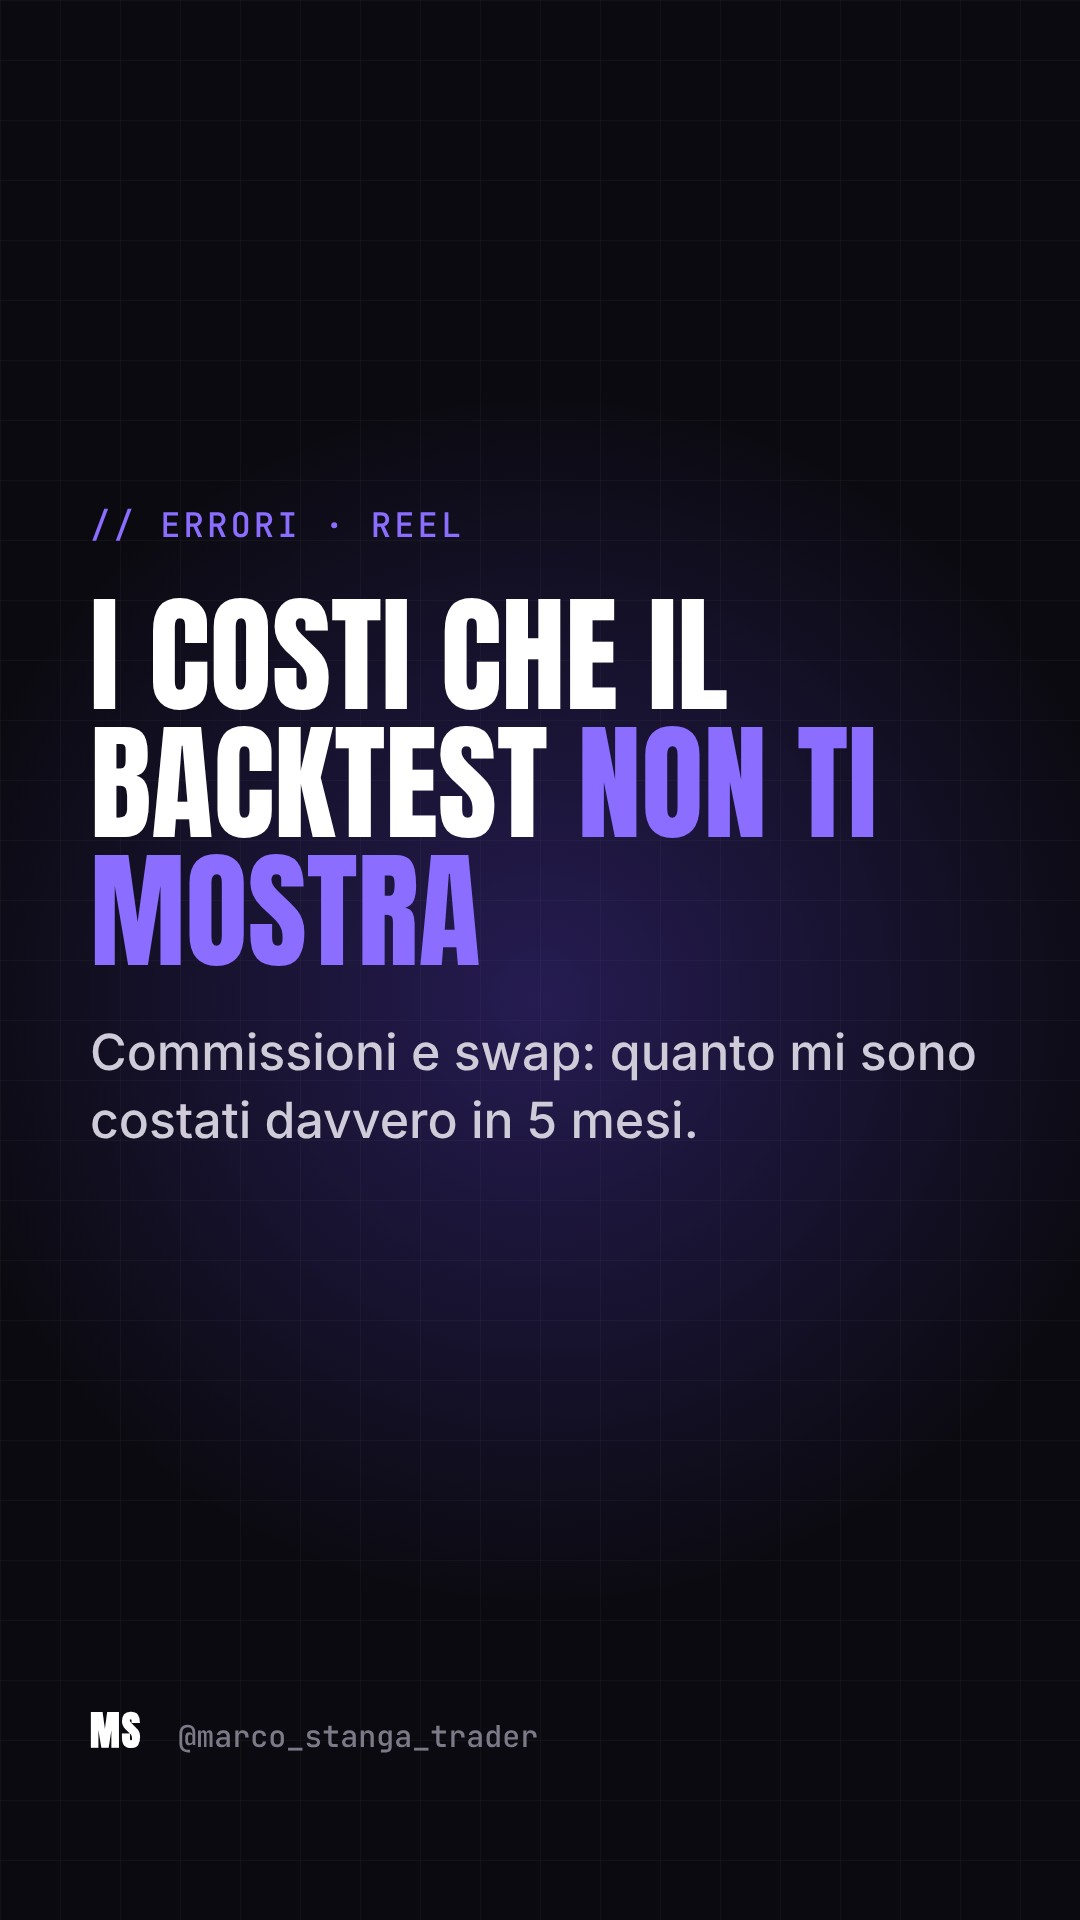
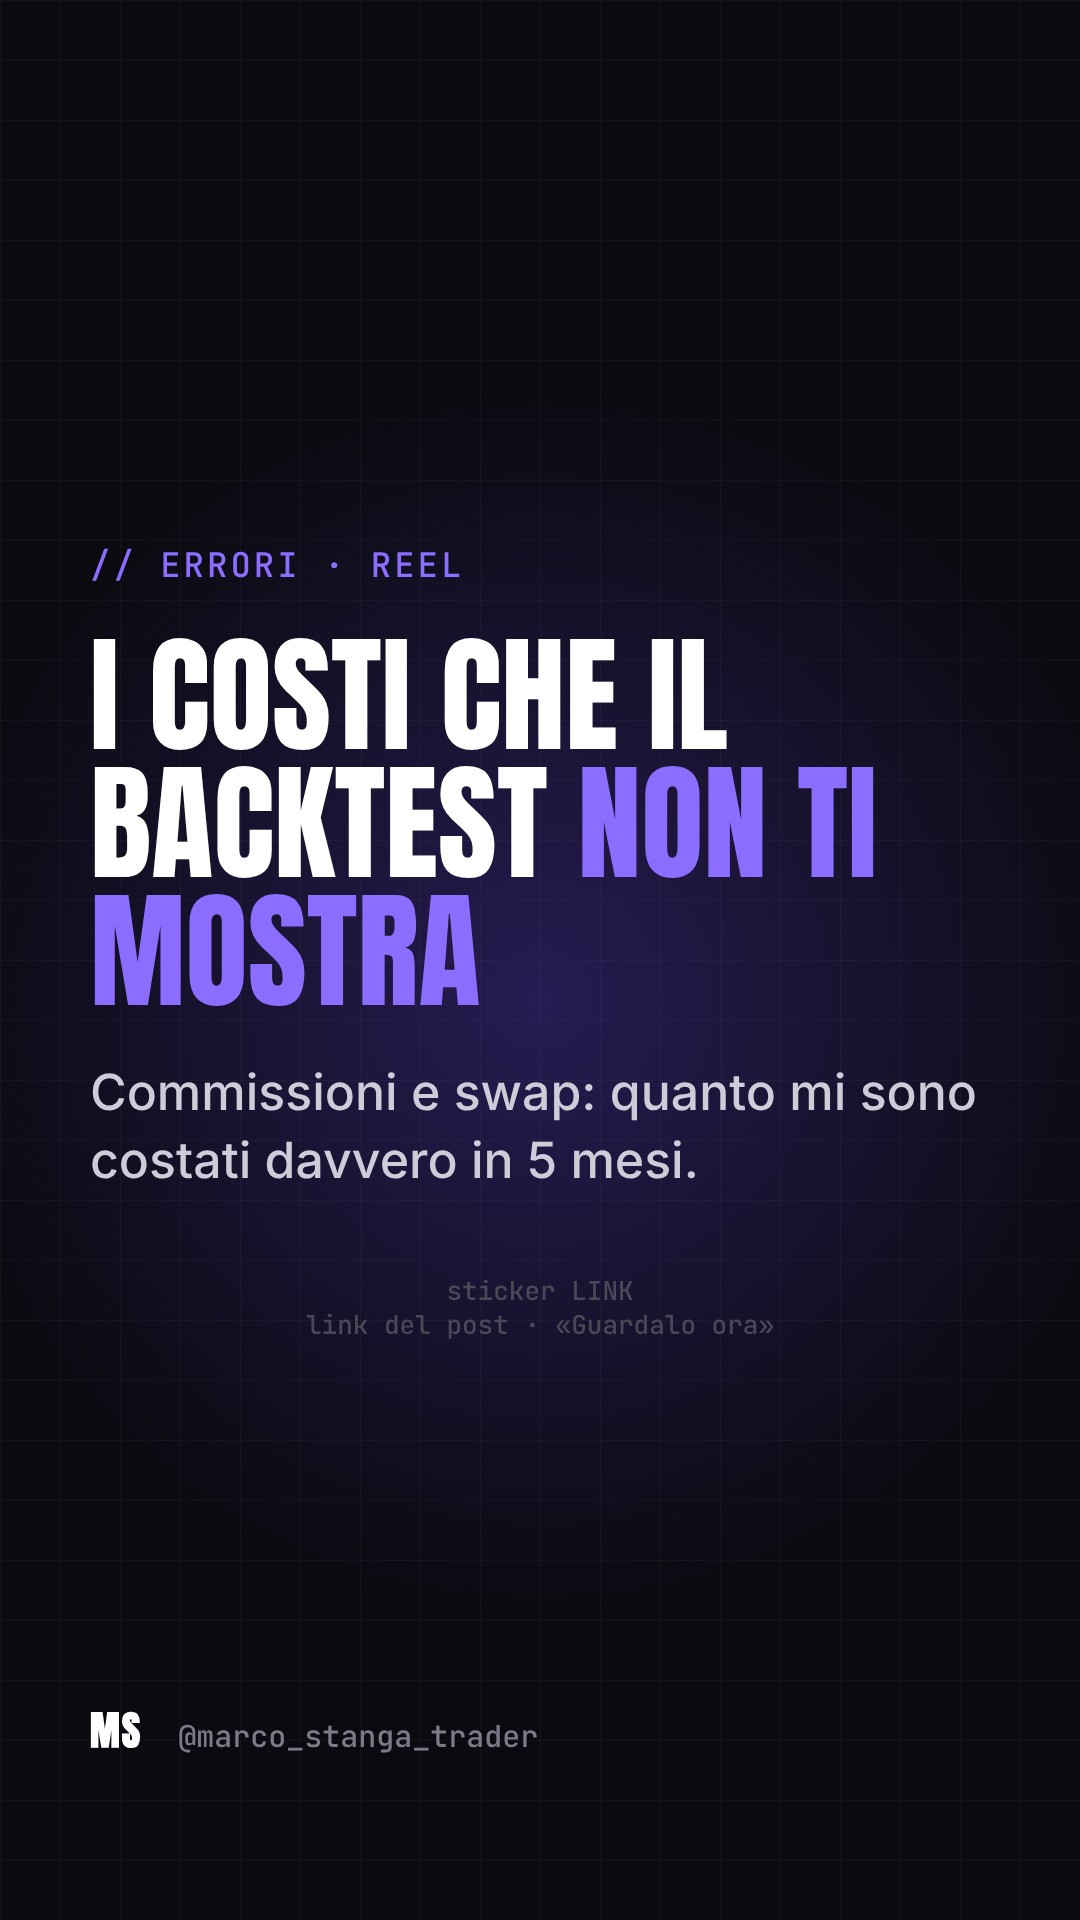
Storie: spazio a misura di sticker con testo guida, regola in memoria
Claude-Session: https://claude.ai/code/session_01RcoKtrDjogzVUQrphFhtK9

diff --git a/CLAUDE.md b/CLAUDE.md
@@ -34,6 +34,7 @@ Marco è italiano, non programmatore: rispondi in italiano semplice, con passi c
 - Il personaggio AI «C» compare SEMPRE: nelle copertine e, quando possibile, nel gancio del reel (immagine generata con Higgsfield usando come riferimento il job 59c21fa3-ba3f-4da5-b893-1ab7b8c0c703, oppure clip animata se ci sono crediti). Deve restare identico.
 
 - COPERTINE (priorità alta): ogni reel ha una copertina dedicata e ogni carosello una prima slide da copertina. Regole: personaggio C ben visibile (ritagliato, mezzo busto, con espressione legata al tema), titolo grande in Anton di massimo 5–6 parole, un solo colore d'accento viola (rosso solo per perdite), numero della serie (#1, #2…). Deve leggersi anche nel ritaglio 4:5 della griglia (zona centrale 1080×1350 del 1080×1920): controllalo sempre generando l'anteprima ritagliata prima di caricare. La griglia del profilo deve sembrare coerente.
+- STORIE CON STICKER (regola di Marco, 16/10/2026): mai riquadri tratteggiati. Lascia uno spazio vuoto grande quanto lo sticker vero (misure su 1080×1920: SONDAGGIO ~600×330, QUIZ ~650×400, DOMANDA ~700×380, CONTO ALLA ROVESCIA ~700×230, LINK ~500×140) e scrivici in piccolo, grigio scuro, cosa mettere (es. «sticker QUIZ · «Sì»/«No» (giusta: No)»): lo sticker lo copre. Nel messaggio a Marco ripeti sempre quale sticker e con che testo.
 
 ## Strumenti Higgsfield utilizzabili in cloud
 - NO: comandi After Effects/Premiere/Photoshop/Illustrator/Blender/DaVinci/TouchDesigner (richiedono app locali).

diff --git a/docs/MEMORIA.md b/docs/MEMORIA.md
@@ -41,3 +41,4 @@ Promemoria: ricordarli a Marco quando sono vicini (nell'email giornaliera e quan
 | da ~10k follower | media kit e primi sponsor (solo regolamentati) | Claude + Marco |
 | facoltativo | scollegare guidoio_ da Publora per sicurezza | Marco |
 | in sospeso | Guido io: compilare CLAUDE.md e brand.json nella sessione locale | Marco |
+- 16/10: storie con sticker → spazio vuoto a misura di sticker + testo guida grigio (regola in CLAUDE.md, sezione Qualità).
